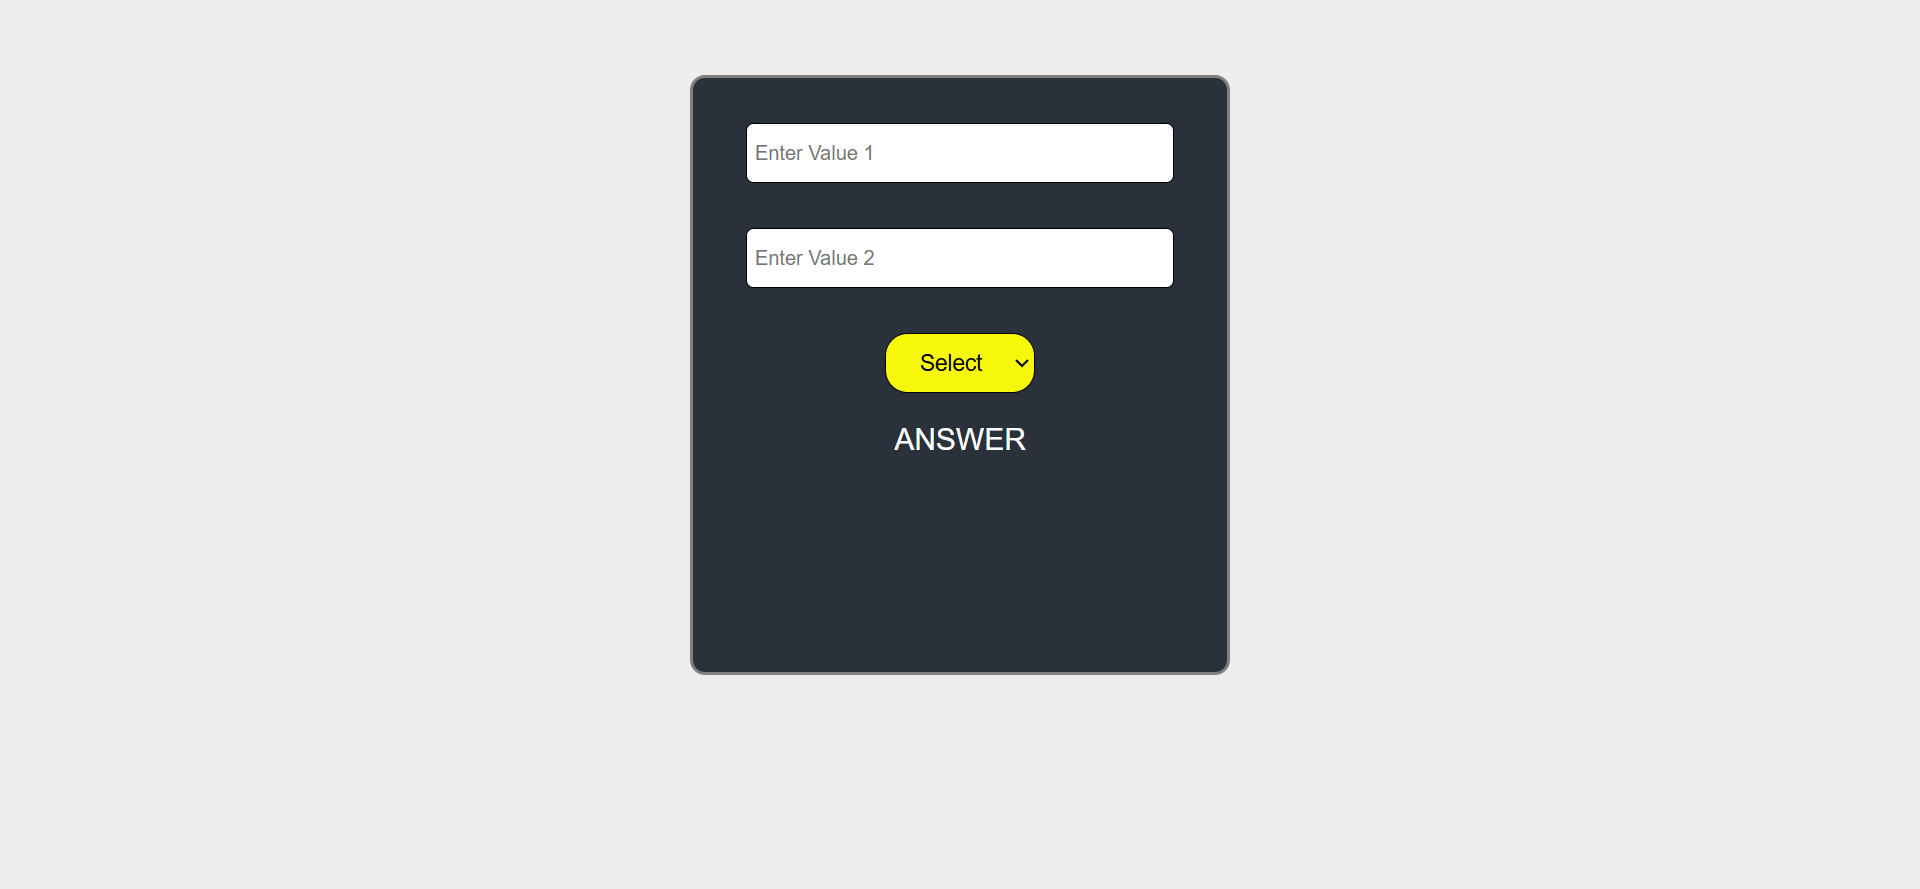
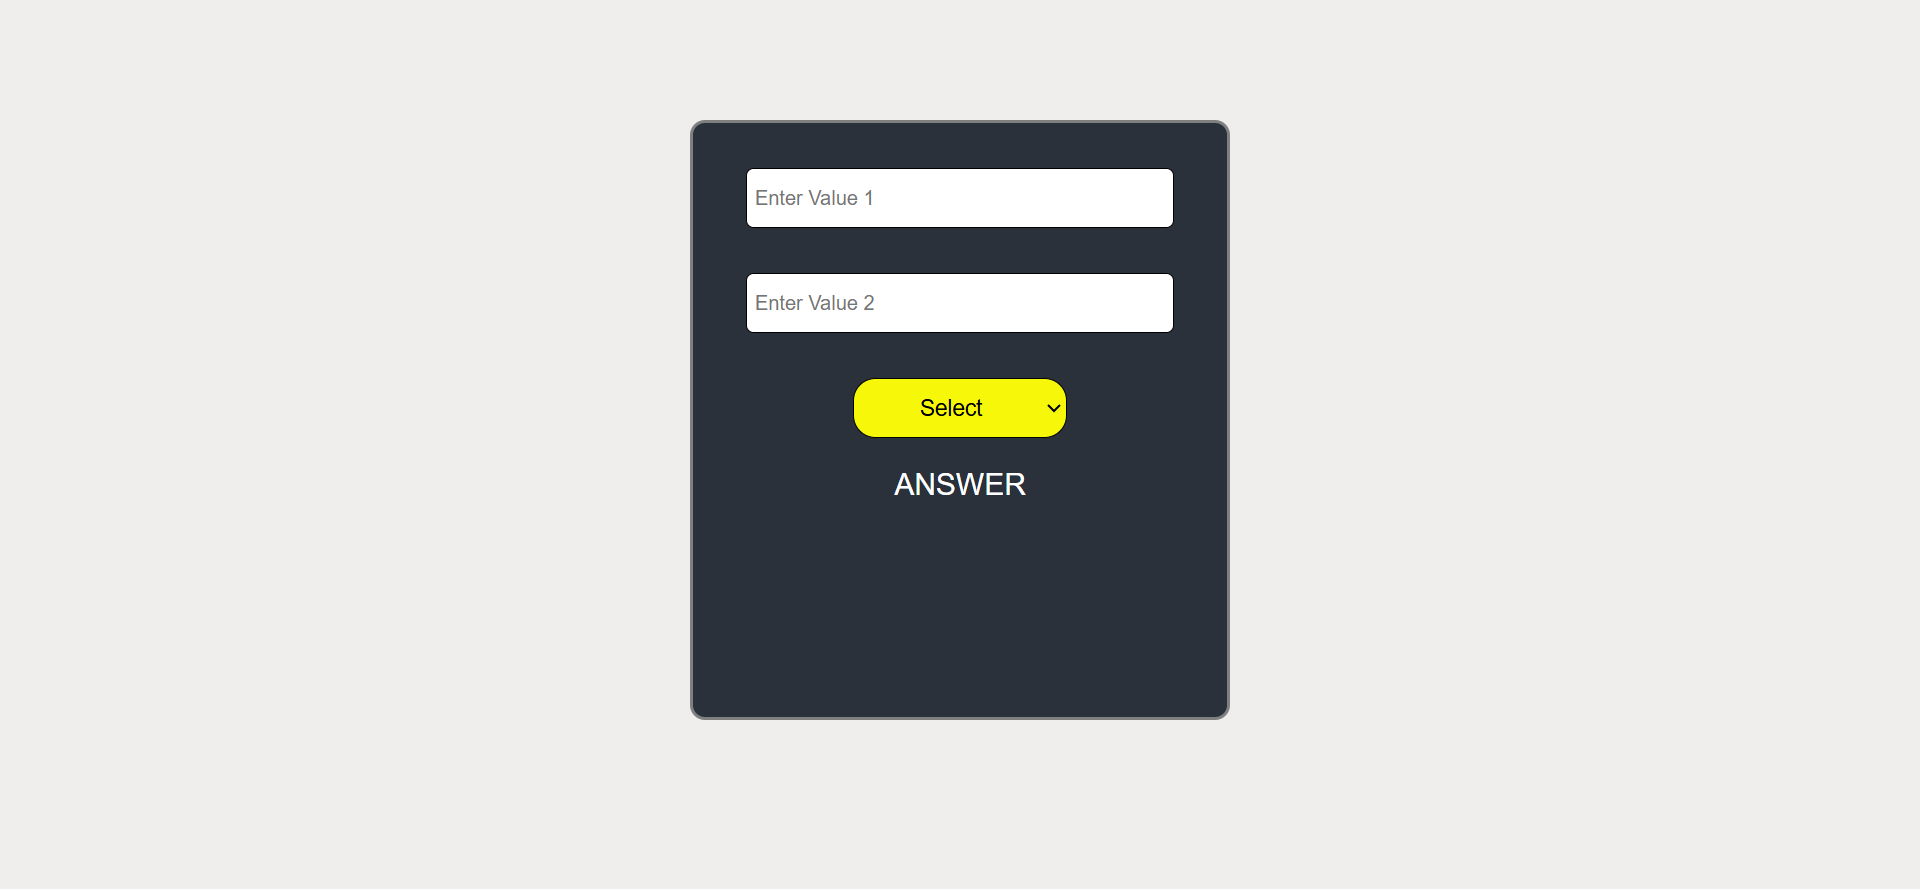
second commit

Changed region(s): [[0.3438, 0.0607, 0.6562, 0.5771], [0.3438, 0.7289, 0.6562, 0.82]]

diff --git a/calc_with_select/style.css b/calc_with_select/style.css
@@ -24,7 +24,7 @@
     flex-direction: column;
     justify-content: start;
     align-items: center;
-    margin-top: 50px;
+    margin-top: 80px;
     border-radius: 10px;
     background-color: #2B313B;
 }
@@ -75,7 +75,7 @@ select{
     background-color: #F7F709;
     border: 1px solid;
     border-radius: 15px;
-    width: 100px;
+    width: 40%;
     height: 40px;
     font-size: 15px;
 }

diff --git a/calc_with_select/index.html b/calc_with_select/index.html
@@ -20,7 +20,7 @@
             
             
             <select name="" id="" class="" onchange="calc(value)">
-                <option value="" selected>Select</option>
+                <option value="" disabled selected>Select</option>
                 <option value="1">+</option>
                 <option value="2">-</option>
                 <option value="3">*</option>

diff --git a/simple_calc/style.css b/simple_calc/style.css
@@ -18,15 +18,16 @@
 
 .container {
     width: 360px;
-    height: 400px;
+    height: 310px;
     border: 2px solid grey;
     display: flex;
     flex-direction: column;
     justify-content: start;
     align-items: center;
-    margin-top: 50px;
+    margin-top: 80px;
     border-radius: 10px;
     background-color: #2B313B;
+    padding: 7px;
 }
 
 .container input {

diff --git a/calc_with_radiobutton/style.css b/calc_with_radiobutton/style.css
@@ -108,3 +108,7 @@ select option{
     height: 20px;
     margin: 10px;
 }
+
+input[type="radio"]{
+    accent-color: black;
+}
